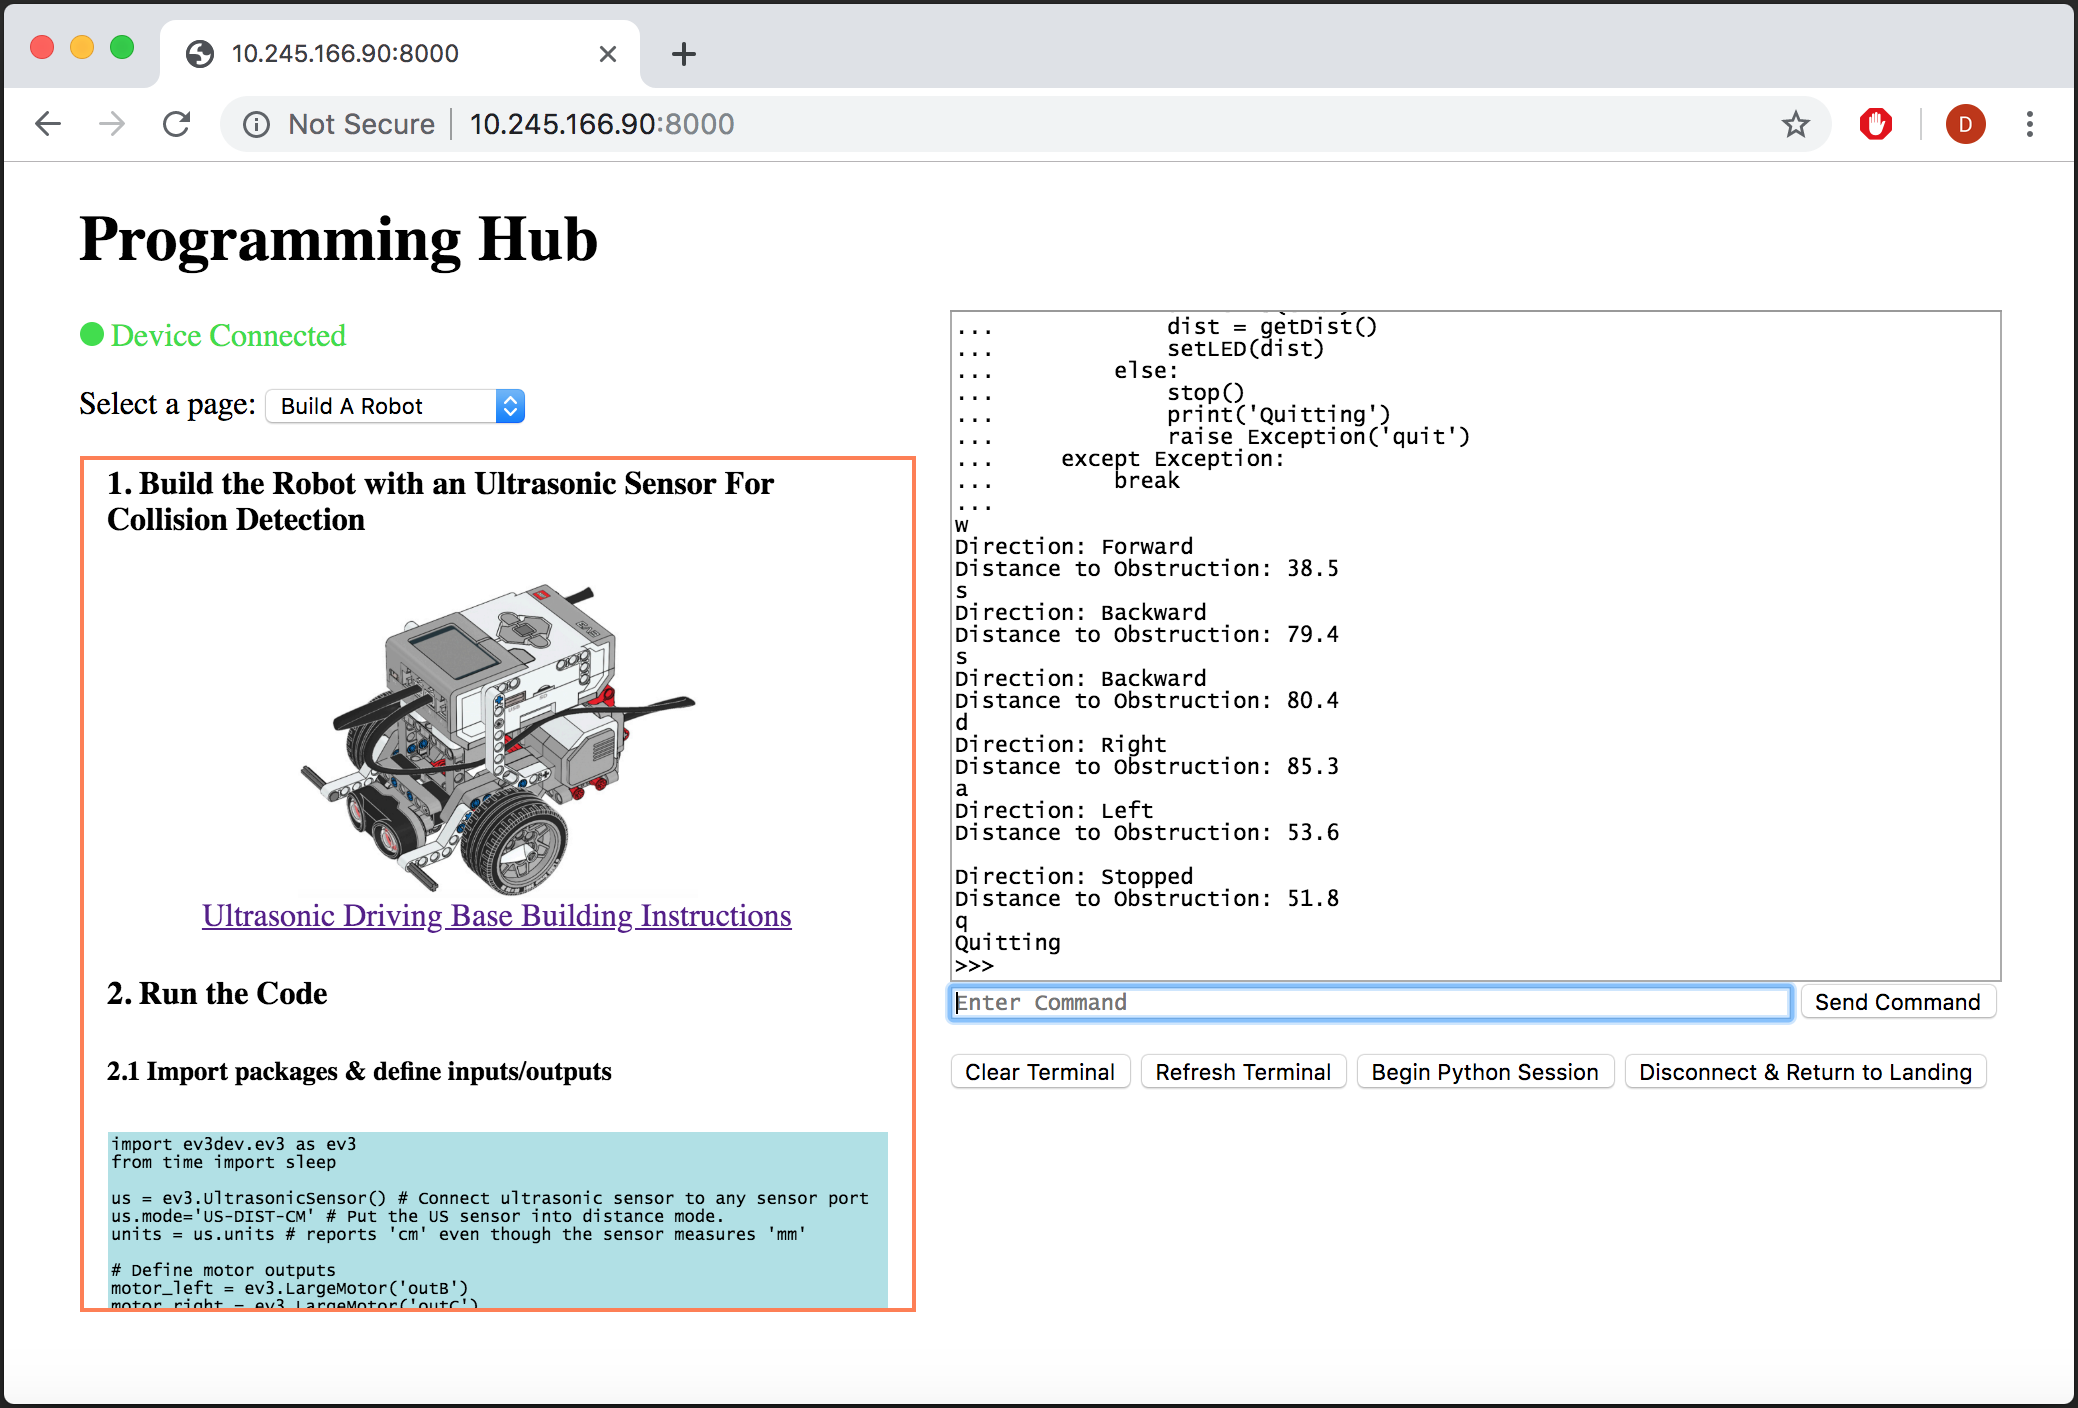
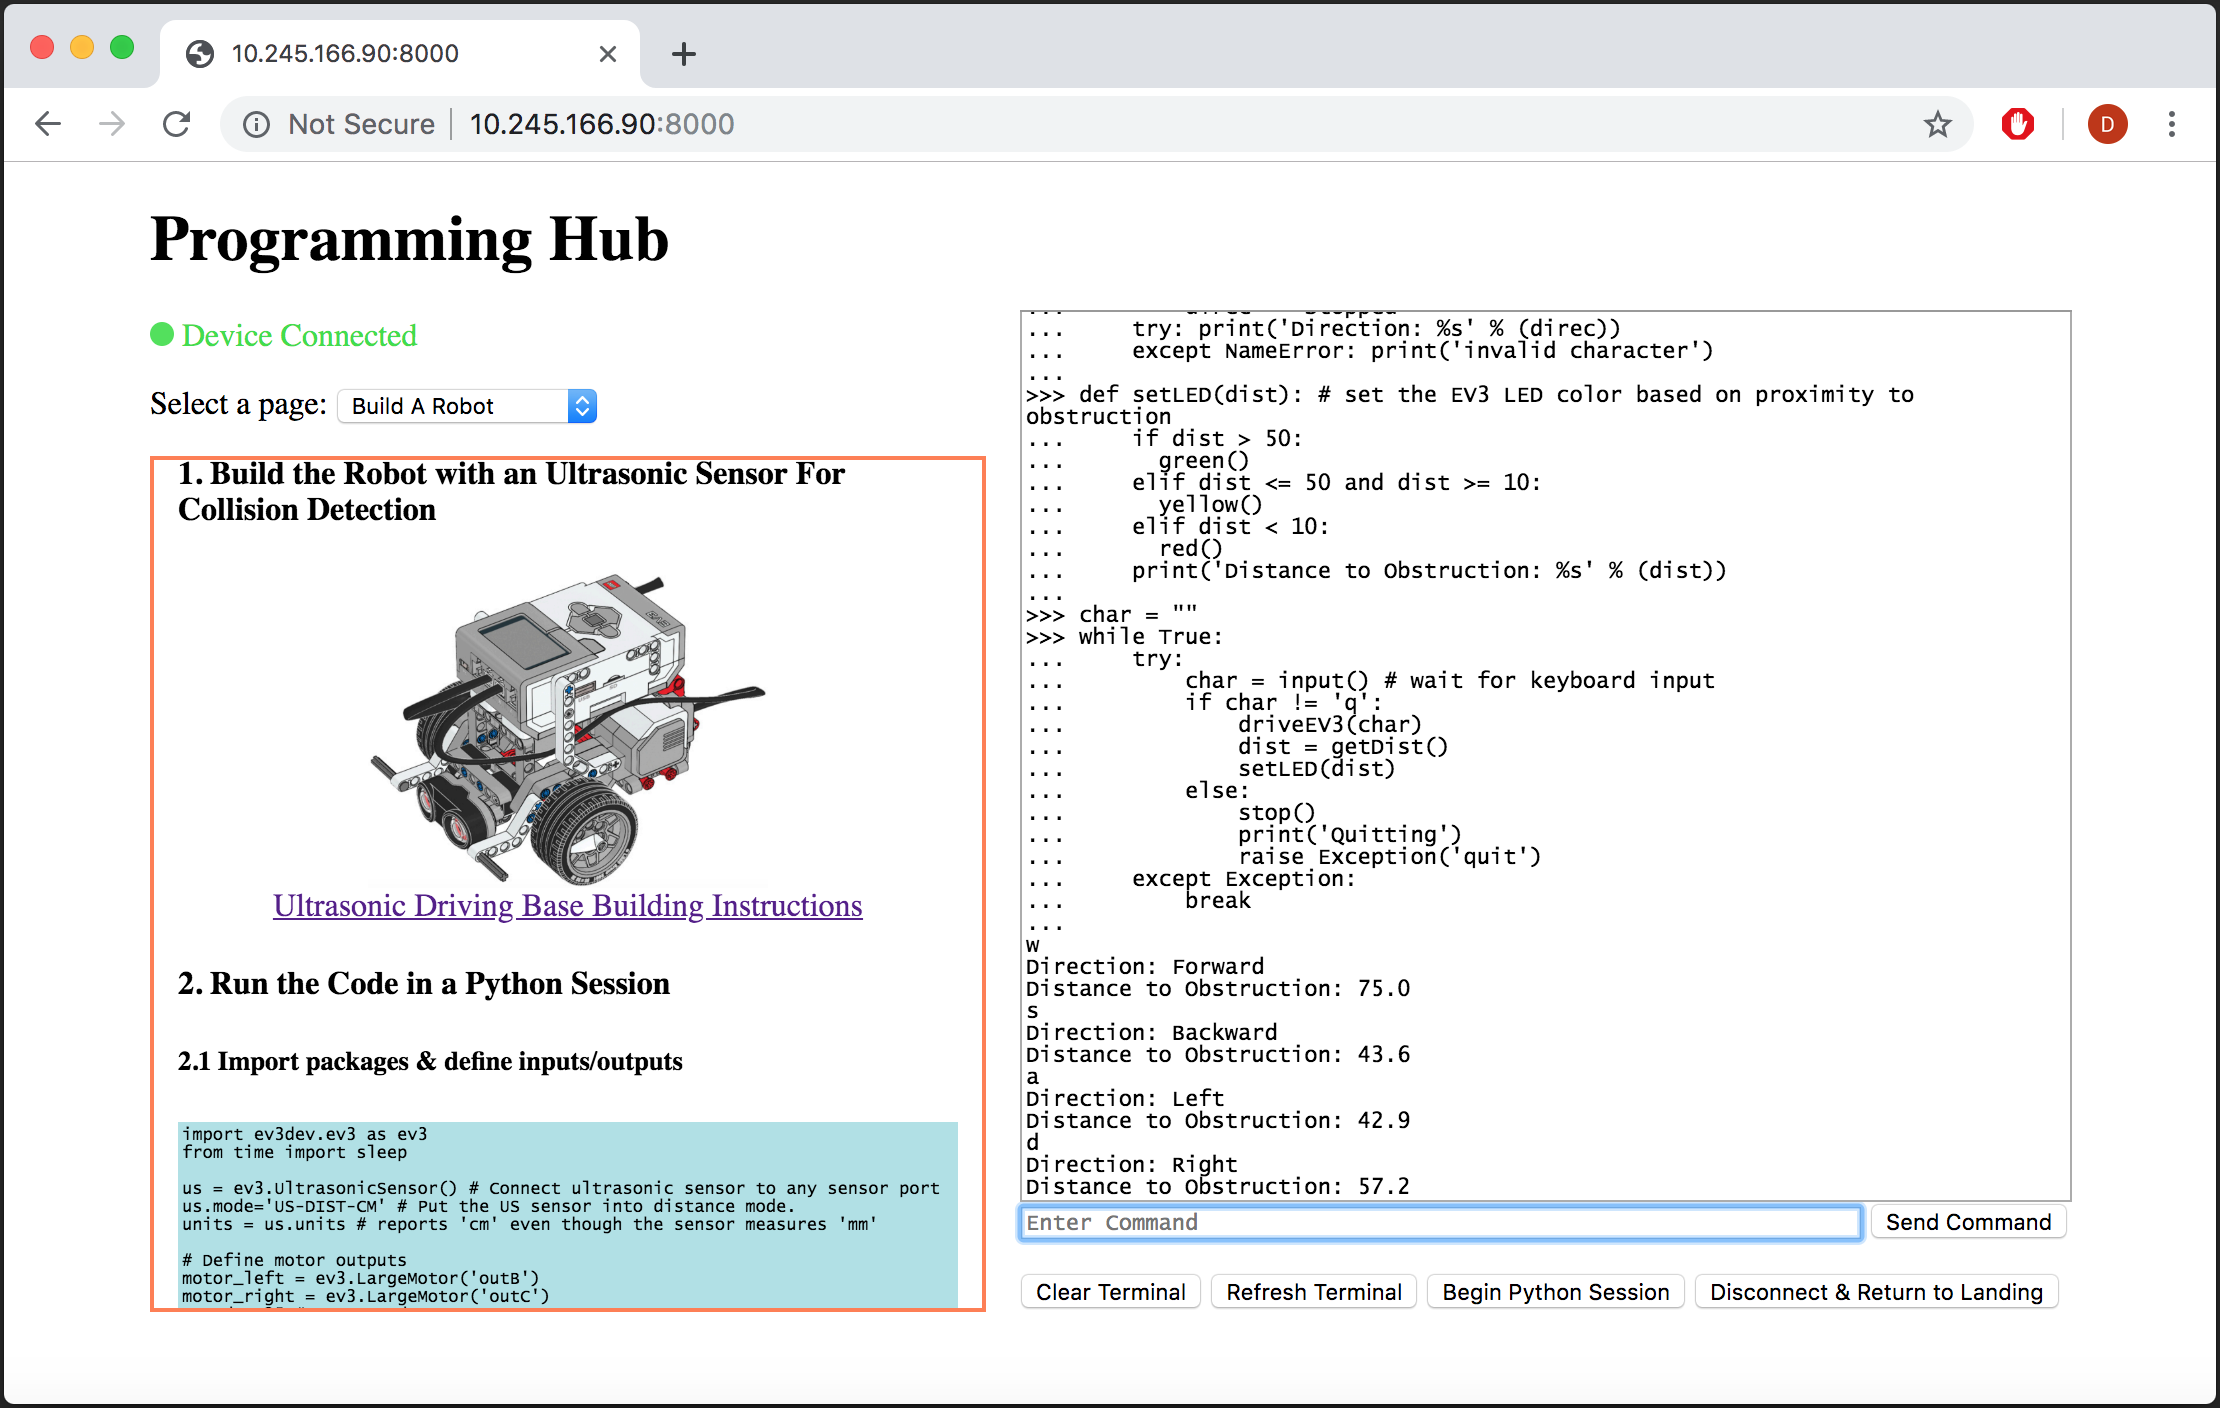
Minor Updates

diff --git a/includes/Lesson.html b/includes/Lesson.html
@@ -4,10 +4,10 @@
 <img src="https://github.com/tuftsceeo/ProgrammingHub/blob/master/includes/images/UltraSonicDrivingBase.png?raw=true" alt="UltraSonicDrivingBase" width="200" height="159"><br>
 <a href="https://le-www-live-s.legocdn.com/sc/media/lessons/mindstorms-ev3/building-instructions/ev3-ultrasonic-sensor-driving-base-61ffdfa461aee2470b8ddbeab16e2070.pdf" target="_blank">Ultrasonic Driving Base Building Instructions</a>
 </center>
-<h4>2. Run the Code</h4>
+<h4>2. Run the Code in a Python Session</h4>
 <h5>2.1 Import packages & define inputs/outputs</h5>
 <form action="/" method="POST">
-   <textarea class="monoSmall" rows="12" cols="74" spellcheck="false" name = "{}"
+   <textarea class="monoSmall" rows="13" cols="74" spellcheck="false" name = "{}"
       style = "border:none;resize:none;background-color:powderblue"
    >import ev3dev.ev3 as ev3
 from time import sleep
@@ -20,6 +20,7 @@ units = us.units # reports 'cm' even though the sensor measures 'mm'
 motor_left = ev3.LargeMotor('outB')
 motor_right = ev3.LargeMotor('outC')
 speed = 25 # Set Speed
+
 </textarea>
 <input type="submit" name = "REPL" value = "Send">
 </form>
@@ -125,8 +126,8 @@ while True:
 </textarea>
    <input type="submit" name = "REPL" value = "Send">
 </form>
+<h4>3. Drive your Robot</h4>
 <pre>
-   Instructions: 
    Type a key into the "Enter Command"
    box one at a time then press enter
 
@@ -139,7 +140,5 @@ while True:
     d           Right
     space       Stop
     q           Quit
-
-</pre>
-<br> 
+   ---------------------</pre>
 </div>

diff --git a/includes/Base.html b/includes/Base.html
@@ -2,7 +2,7 @@
 <body style="width:960px; margin: 20px auto;">
 <aside style="float:right;width:525px;">
  <br><br><br>
- <textarea class="mono" rows="30" cols="72" id="TerminalWindow" name="TerminalWindow" spellcheck="false" style = "resize:none" tabindex="-1" placeholder="Terminal Window Will Activate When Device is Connected" readonly>%s</textarea><br>
+ <textarea class="mono" rows="40" cols="72" id="TerminalWindow" name="TerminalWindow" spellcheck="false" style = "resize:none" tabindex="-1" placeholder="Terminal Window Will Activate When Device is Connected" readonly>%s</textarea><br>
  <form id="command" action="/EnterCommand" method="POST" onkeydown="PressEnter(event,'command'); PressTab(event);">
 <input type="text" class="mono" id="CommandText" name="SendCommand" value="" spellcheck="false" tabindex="-1" placeholder="Enter Command" size="59"
 autocomplete="off" autofocus="autofocus">

diff --git a/includes/LandingV2.html b/includes/LandingV2.html
@@ -8,7 +8,7 @@
 <form id="EnterDevice" action="/" method="POST" onkeydown="PressEnter(event,EnterDevice)">
   <span>Device</span><br>
   <select id="deviceSelect" name = "device">
-  	<option value="" disabled selected>Select Device Type</option>
+  	<!-- <option value="" disabled selected>Select Device Type</option> -->
     <option value="EV3" selected>EV3</option>
     <option value="Other" disabled>More Devices Coming Soon</option>
   </select><br><br>
@@ -29,7 +29,6 @@ function PressEnter(e,FormID) {
     // If Enter is Pressed
     if ( (window.event ? event.keyCode : e.which) == 13) {
     	// Submit the Form
-
         document.getElementById(FormID).submit();
     }
 }
